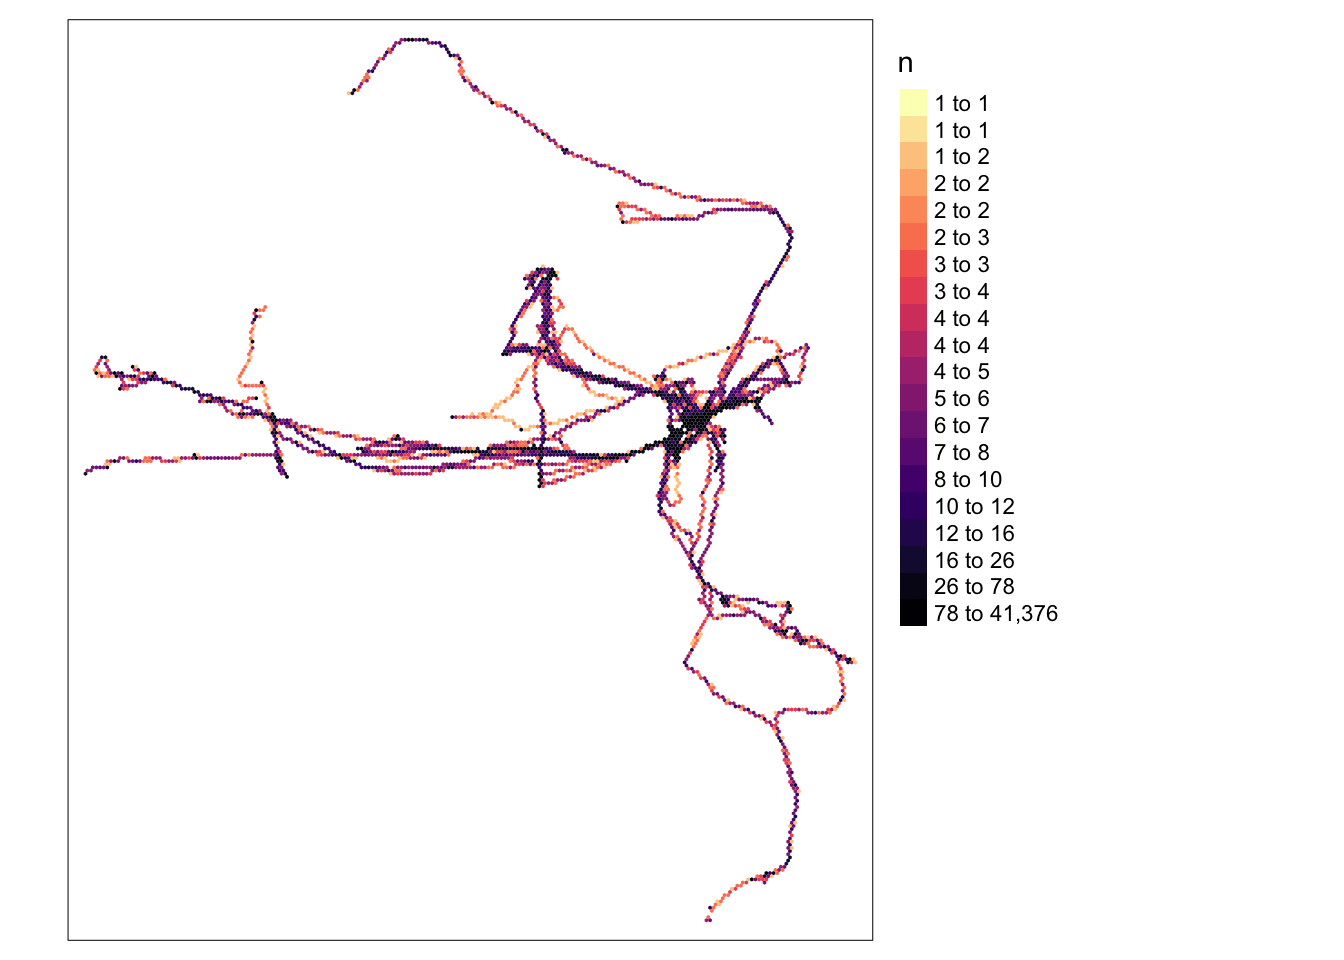
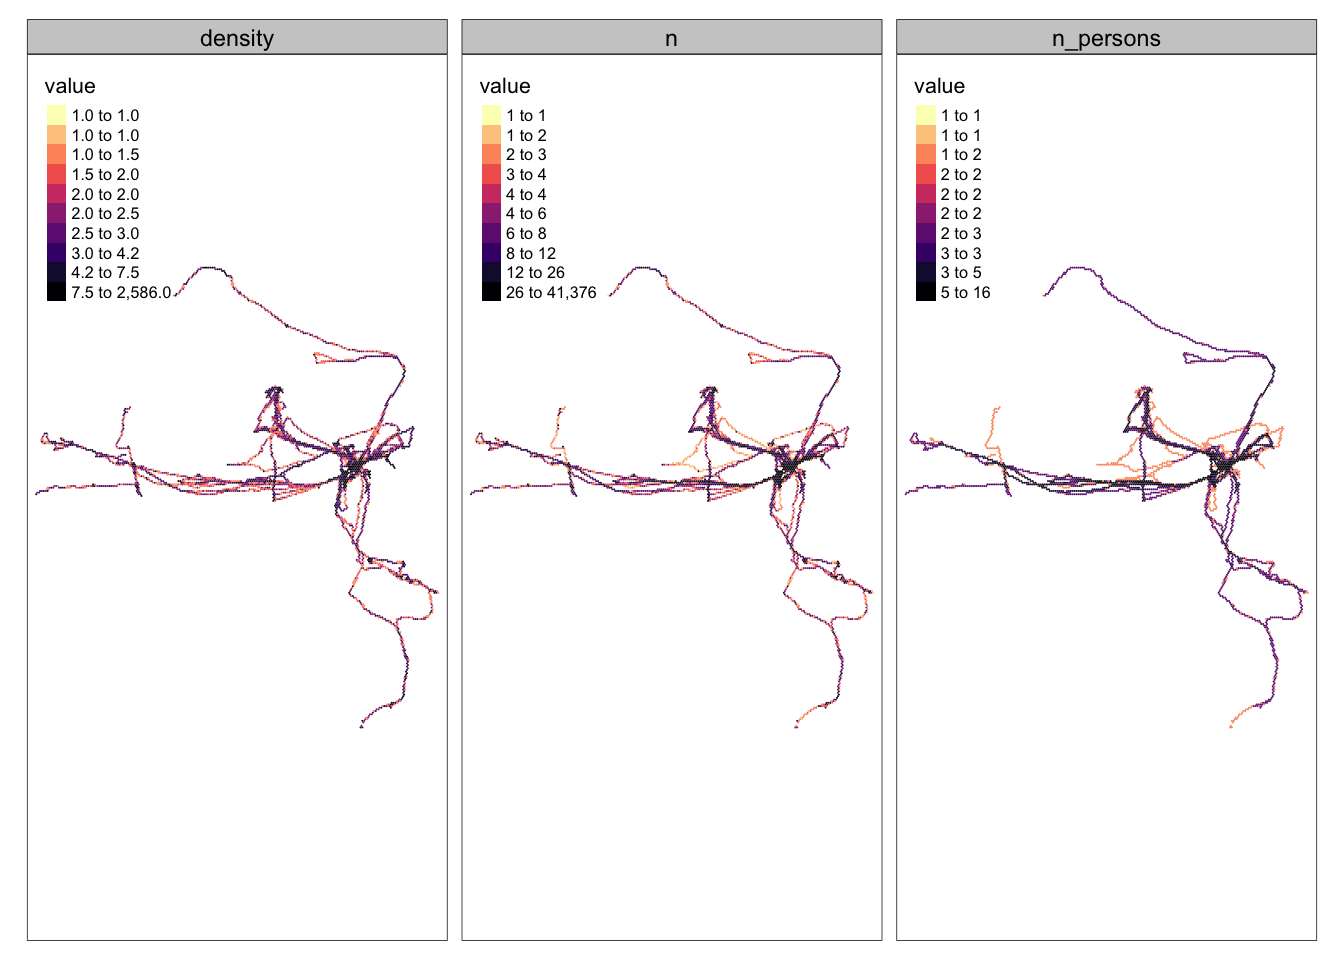
added new ways of filtering hexbins

diff --git a/docs/notebooks/03-estimating-a-hiking-function.html b/docs/notebooks/03-estimating-a-hiking-function.html
@@ -289,10 +289,14 @@ Update History
 </thead>
 <tbody>
 <tr class="odd">
+<td style="text-align: left;">2024-07-22</td>
+<td style="text-align: left;">Added variables to hex bin filter method.</td>
+</tr>
+<tr class="even">
 <td style="text-align: left;">2024-07-19</td>
 <td style="text-align: left;">Added nlsLM estimation of models.</td>
 </tr>
-<tr class="even">
+<tr class="odd">
 <td style="text-align: left;">2024-07-17</td>
 <td style="text-align: left;">Initial post.</td>
 </tr>
@@ -470,26 +474,24 @@ Achieved convergence tolerance: 1.49e-08</code></pre>
 </section>
 <section id="filtering-by-densely-travelled-locations" class="level3">
 <h3 class="anchored" data-anchor-id="filtering-by-densely-travelled-locations">Filtering by densely travelled locations</h3>
-<p><strong>TODO</strong>: Add number of distinct individuals to the binned data as an additional potential filter.</p>
 <p>The idea here is that densely travelled locations are near base camps and similar sites, and not where scientists are ‘on the move’. The approach below uses hex binning to find densely trafficked areas and exclude fixes in those areas.</p>
 <div class="cell">
 <div class="sourceCode cell-code" id="cb11"><pre class="sourceCode r code-with-copy"><code class="sourceCode r"><span id="cb11-1"><a href="#cb11-1" aria-hidden="true" tabindex="-1"></a>hexes <span class="ot">&lt;-</span> all_traces <span class="sc">|&gt;</span></span>
 <span id="cb11-2"><a href="#cb11-2" aria-hidden="true" tabindex="-1"></a>  <span class="fu">st_make_grid</span>(<span class="at">cellsize =</span> <span class="dv">60</span>, <span class="at">square =</span> <span class="cn">FALSE</span>, <span class="at">what =</span> <span class="st">"polygons"</span>) <span class="sc">|&gt;</span></span>
-<span id="cb11-3"><a href="#cb11-3" aria-hidden="true" tabindex="-1"></a>  <span class="fu">st_as_sf</span>(<span class="at">crs =</span> <span class="fu">st_crs</span>(all_traces))</span>
-<span id="cb11-4"><a href="#cb11-4" aria-hidden="true" tabindex="-1"></a></span>
-<span id="cb11-5"><a href="#cb11-5" aria-hidden="true" tabindex="-1"></a>counts <span class="ot">&lt;-</span> hexes <span class="sc">|&gt;</span></span>
-<span id="cb11-6"><a href="#cb11-6" aria-hidden="true" tabindex="-1"></a>  <span class="fu">st_intersects</span>(all_traces) <span class="sc">|&gt;</span></span>
-<span id="cb11-7"><a href="#cb11-7" aria-hidden="true" tabindex="-1"></a>  <span class="fu">lengths</span>()</span>
-<span id="cb11-8"><a href="#cb11-8" aria-hidden="true" tabindex="-1"></a></span>
-<span id="cb11-9"><a href="#cb11-9" aria-hidden="true" tabindex="-1"></a>hexes <span class="ot">&lt;-</span> hexes <span class="sc">|&gt;</span></span>
-<span id="cb11-10"><a href="#cb11-10" aria-hidden="true" tabindex="-1"></a>  <span class="fu">mutate</span>(<span class="at">n =</span> counts) <span class="sc">|&gt;</span></span>
-<span id="cb11-11"><a href="#cb11-11" aria-hidden="true" tabindex="-1"></a>  <span class="fu">filter</span>(n <span class="sc">&gt;</span> <span class="dv">0</span>)</span></code><button title="Copy to Clipboard" class="code-copy-button"><i class="bi"></i></button></pre></div>
+<span id="cb11-3"><a href="#cb11-3" aria-hidden="true" tabindex="-1"></a>  <span class="fu">st_as_sf</span>(<span class="at">crs =</span> <span class="fu">st_crs</span>(all_traces)) <span class="sc">|&gt;</span></span>
+<span id="cb11-4"><a href="#cb11-4" aria-hidden="true" tabindex="-1"></a>  <span class="fu">rename</span>(<span class="at">geom =</span> x) <span class="sc">|&gt;</span></span>
+<span id="cb11-5"><a href="#cb11-5" aria-hidden="true" tabindex="-1"></a>  <span class="fu">st_join</span>(all_traces <span class="sc">|&gt;</span> <span class="fu">mutate</span>(<span class="at">id =</span> <span class="fu">row_number</span>()), <span class="at">left =</span> <span class="cn">FALSE</span>) <span class="sc">|&gt;</span></span>
+<span id="cb11-6"><a href="#cb11-6" aria-hidden="true" tabindex="-1"></a>  <span class="fu">group_by</span>(geom) <span class="sc">|&gt;</span></span>
+<span id="cb11-7"><a href="#cb11-7" aria-hidden="true" tabindex="-1"></a>  <span class="fu">summarise</span>(<span class="at">n =</span> <span class="fu">n</span>(), <span class="at">n_persons =</span> <span class="fu">n_distinct</span>(name)) <span class="sc">|&gt;</span></span>
+<span id="cb11-8"><a href="#cb11-8" aria-hidden="true" tabindex="-1"></a>  <span class="fu">select</span>(n, n_persons) <span class="sc">|&gt;</span> </span>
+<span id="cb11-9"><a href="#cb11-9" aria-hidden="true" tabindex="-1"></a>  <span class="fu">ungroup</span>() <span class="sc">|&gt;</span></span>
+<span id="cb11-10"><a href="#cb11-10" aria-hidden="true" tabindex="-1"></a>  <span class="fu">mutate</span>(<span class="at">density =</span> n <span class="sc">/</span> n_persons)</span></code><button title="Copy to Clipboard" class="code-copy-button"><i class="bi"></i></button></pre></div>
 </div>
 <p>Map with <code>tmap</code> (greater flexibility on the classification scheme)</p>
 <div class="cell">
-<div class="sourceCode cell-code" id="cb12"><pre class="sourceCode r code-with-copy"><code class="sourceCode r"><span id="cb12-1"><a href="#cb12-1" aria-hidden="true" tabindex="-1"></a><span class="fu">tm_shape</span>(hexes) <span class="sc">+</span></span>
-<span id="cb12-2"><a href="#cb12-2" aria-hidden="true" tabindex="-1"></a>  <span class="fu">tm_fill</span>(<span class="at">col =</span> <span class="st">"n"</span>, <span class="at">style =</span> <span class="st">"quantile"</span>, <span class="at">n =</span> <span class="dv">20</span>, <span class="at">palette =</span> <span class="st">"-magma"</span>) <span class="sc">+</span></span>
-<span id="cb12-3"><a href="#cb12-3" aria-hidden="true" tabindex="-1"></a>  <span class="fu">tm_layout</span>(<span class="at">legend.outside =</span> <span class="cn">TRUE</span>)</span></code><button title="Copy to Clipboard" class="code-copy-button"><i class="bi"></i></button></pre></div>
+<div class="sourceCode cell-code" id="cb12"><pre class="sourceCode r code-with-copy"><code class="sourceCode r"><span id="cb12-1"><a href="#cb12-1" aria-hidden="true" tabindex="-1"></a><span class="fu">tm_shape</span>(hexes <span class="sc">|&gt;</span> <span class="fu">pivot_longer</span>(<span class="at">cols =</span> <span class="fu">c</span>(n, n_persons, density))) <span class="sc">+</span></span>
+<span id="cb12-2"><a href="#cb12-2" aria-hidden="true" tabindex="-1"></a>  <span class="fu">tm_fill</span>(<span class="at">col =</span> <span class="st">"value"</span>, <span class="at">style =</span> <span class="st">"quantile"</span>, <span class="at">n =</span> <span class="dv">10</span>, <span class="at">palette =</span> <span class="st">"-magma"</span>) <span class="sc">+</span></span>
+<span id="cb12-3"><a href="#cb12-3" aria-hidden="true" tabindex="-1"></a>  <span class="fu">tm_facets</span>(<span class="at">by =</span> <span class="st">"name"</span>, <span class="at">free.scales =</span> <span class="cn">TRUE</span>)</span></code><button title="Copy to Clipboard" class="code-copy-button"><i class="bi"></i></button></pre></div>
 <div class="cell-output-display">
 <div>
 <figure class="figure">
@@ -498,12 +500,15 @@ Achieved convergence tolerance: 1.49e-08</code></pre>
 </div>
 </div>
 </div>
-<p>But where to cut off the data? Here’s a histogram… although we need to cut out the really big numbers to see anything…</p>
+<p>But where to cut off the data? Here are boxplots (note log scales) of the number of fixes <code>n</code>, the number of persons, <code>n_persons</code>, and the number of fixes per person, <code>density</code>, associated with each hex.</p>
 <div class="cell">
-<div class="sourceCode cell-code" id="cb13"><pre class="sourceCode r code-with-copy"><code class="sourceCode r"><span id="cb13-1"><a href="#cb13-1" aria-hidden="true" tabindex="-1"></a>hexes <span class="sc">|&gt;</span> <span class="fu">filter</span>(n <span class="sc">&lt;</span> <span class="dv">50</span>) <span class="sc">|&gt;</span></span>
-<span id="cb13-2"><a href="#cb13-2" aria-hidden="true" tabindex="-1"></a>  <span class="fu">ggplot</span>() <span class="sc">+</span></span>
-<span id="cb13-3"><a href="#cb13-3" aria-hidden="true" tabindex="-1"></a>  <span class="fu">geom_histogram</span>(<span class="fu">aes</span>(<span class="at">x =</span> n), <span class="at">fill =</span> <span class="st">"grey"</span>, <span class="at">colour =</span> <span class="st">"black"</span>, <span class="at">linewidth =</span> <span class="fl">0.35</span>) <span class="sc">+</span></span>
-<span id="cb13-4"><a href="#cb13-4" aria-hidden="true" tabindex="-1"></a>  <span class="fu">theme_minimal</span>()</span></code><button title="Copy to Clipboard" class="code-copy-button"><i class="bi"></i></button></pre></div>
+<div class="sourceCode cell-code" id="cb13"><pre class="sourceCode r code-with-copy"><code class="sourceCode r"><span id="cb13-1"><a href="#cb13-1" aria-hidden="true" tabindex="-1"></a>hexes <span class="sc">|&gt;</span> </span>
+<span id="cb13-2"><a href="#cb13-2" aria-hidden="true" tabindex="-1"></a>  <span class="fu">pivot_longer</span>(<span class="at">cols =</span> <span class="fu">c</span>(n, n_persons, density)) <span class="sc">|&gt;</span></span>
+<span id="cb13-3"><a href="#cb13-3" aria-hidden="true" tabindex="-1"></a>  <span class="fu">ggplot</span>() <span class="sc">+</span></span>
+<span id="cb13-4"><a href="#cb13-4" aria-hidden="true" tabindex="-1"></a>  <span class="fu">geom_boxplot</span>(<span class="fu">aes</span>(<span class="at">y =</span> value)) <span class="sc">+</span></span>
+<span id="cb13-5"><a href="#cb13-5" aria-hidden="true" tabindex="-1"></a>  <span class="fu">scale_y_log10</span>() <span class="sc">+</span></span>
+<span id="cb13-6"><a href="#cb13-6" aria-hidden="true" tabindex="-1"></a>  <span class="fu">facet_wrap</span>( <span class="sc">~</span> name, <span class="at">scales =</span> <span class="st">"free_y"</span>, <span class="at">ncol =</span> <span class="dv">3</span>) <span class="sc">+</span></span>
+<span id="cb13-7"><a href="#cb13-7" aria-hidden="true" tabindex="-1"></a>  <span class="fu">theme_minimal</span>()</span></code><button title="Copy to Clipboard" class="code-copy-button"><i class="bi"></i></button></pre></div>
 <div class="cell-output-display">
 <div>
 <figure class="figure">
@@ -512,27 +517,28 @@ Achieved convergence tolerance: 1.49e-08</code></pre>
 </div>
 </div>
 </div>
-<p>This doesn’t really help… but it does suggest that perhaps somewhere around 25?</p>
-<p>However… it’s not entirely clear that this yields better results!</p>
+<p>This doesn’t really help! … and it’s not entirely clear that this yields better results!</p>
 <div class="cell">
 <div class="sourceCode cell-code" id="cb14"><pre class="sourceCode r code-with-copy"><code class="sourceCode r"><span id="cb14-1"><a href="#cb14-1" aria-hidden="true" tabindex="-1"></a>d_hexes <span class="ot">&lt;-</span> all_traces <span class="sc">|&gt;</span></span>
 <span id="cb14-2"><a href="#cb14-2" aria-hidden="true" tabindex="-1"></a>  <span class="fu">st_join</span>(hexes) <span class="sc">|&gt;</span> </span>
-<span id="cb14-3"><a href="#cb14-3" aria-hidden="true" tabindex="-1"></a>  <span class="fu">filter</span>(n <span class="sc">&lt;</span> <span class="dv">25</span>) <span class="sc">|&gt;</span></span>
-<span id="cb14-4"><a href="#cb14-4" aria-hidden="true" tabindex="-1"></a>  <span class="fu">st_drop_geometry</span>() <span class="sc">|&gt;</span></span>
-<span id="cb14-5"><a href="#cb14-5" aria-hidden="true" tabindex="-1"></a>  <span class="fu">select</span>(slope_h, speed_km_h)</span>
-<span id="cb14-6"><a href="#cb14-6" aria-hidden="true" tabindex="-1"></a></span>
-<span id="cb14-7"><a href="#cb14-7" aria-hidden="true" tabindex="-1"></a>mod_tobler <span class="ot">&lt;-</span> <span class="fu">get_tobler_hiking_function</span>(d_hexes)</span>
-<span id="cb14-8"><a href="#cb14-8" aria-hidden="true" tabindex="-1"></a>mod_gauss <span class="ot">&lt;-</span> <span class="fu">get_gaussian_hiking_function</span>(d_hexes)</span>
-<span id="cb14-9"><a href="#cb14-9" aria-hidden="true" tabindex="-1"></a>mod_students_t <span class="ot">&lt;-</span> <span class="fu">get_students_t_hiking_function</span>(d_hexes)</span>
-<span id="cb14-10"><a href="#cb14-10" aria-hidden="true" tabindex="-1"></a></span>
-<span id="cb14-11"><a href="#cb14-11" aria-hidden="true" tabindex="-1"></a><span class="fu">plot</span>(gps_data, <span class="at">col =</span> <span class="st">"lightgray"</span>, <span class="at">cex =</span> <span class="fl">0.5</span>,</span>
-<span id="cb14-12"><a href="#cb14-12" aria-hidden="true" tabindex="-1"></a>     <span class="at">main =</span> <span class="st">"Hiking functions from less densely trafficked areas"</span>)</span>
-<span id="cb14-13"><a href="#cb14-13" aria-hidden="true" tabindex="-1"></a><span class="fu">points</span>(d_hexes, <span class="at">cex =</span> <span class="fl">0.5</span>) </span>
-<span id="cb14-14"><a href="#cb14-14" aria-hidden="true" tabindex="-1"></a><span class="fu">lines</span>(s, <span class="fu">predict</span>(mod_tobler, slopes), <span class="at">col =</span> <span class="st">"red"</span>, <span class="at">lwd =</span> <span class="dv">2</span>)</span>
-<span id="cb14-15"><a href="#cb14-15" aria-hidden="true" tabindex="-1"></a><span class="fu">lines</span>(s, <span class="fu">predict</span>(mod_gauss, slopes), <span class="at">col =</span> <span class="st">"blue"</span>, <span class="at">lwd =</span> <span class="dv">2</span>)</span>
-<span id="cb14-16"><a href="#cb14-16" aria-hidden="true" tabindex="-1"></a><span class="fu">lines</span>(s, <span class="fu">predict</span>(mod_students_t, slopes), <span class="at">col =</span> <span class="st">"forestgreen"</span>, <span class="at">lwd =</span> <span class="dv">2</span>)</span>
-<span id="cb14-17"><a href="#cb14-17" aria-hidden="true" tabindex="-1"></a><span class="fu">legend</span>(<span class="st">"topright"</span>, <span class="at">legend =</span> <span class="fu">c</span>(<span class="st">"Tobler"</span>, <span class="st">"Gaussian"</span>, <span class="st">"Student's t"</span>), </span>
-<span id="cb14-18"><a href="#cb14-18" aria-hidden="true" tabindex="-1"></a>       <span class="at">col =</span> <span class="fu">c</span>(<span class="st">"red"</span>, <span class="st">"blue"</span>, <span class="st">"forestgreen"</span>), <span class="at">lwd =</span> <span class="dv">2</span>, <span class="at">lty =</span> <span class="dv">1</span>)</span></code><button title="Copy to Clipboard" class="code-copy-button"><i class="bi"></i></button></pre></div>
+<span id="cb14-3"><a href="#cb14-3" aria-hidden="true" tabindex="-1"></a>  <span class="fu">filter</span>(n <span class="sc">&lt;</span> <span class="dv">26</span>) <span class="sc">|&gt;</span></span>
+<span id="cb14-4"><a href="#cb14-4" aria-hidden="true" tabindex="-1"></a>  <span class="fu">filter</span>(density <span class="sc">&lt;</span> <span class="fl">7.5</span>) <span class="sc">|&gt;</span> </span>
+<span id="cb14-5"><a href="#cb14-5" aria-hidden="true" tabindex="-1"></a>  <span class="fu">filter</span>(n_persons <span class="sc">&lt;</span> <span class="dv">5</span>) <span class="sc">|&gt;</span></span>
+<span id="cb14-6"><a href="#cb14-6" aria-hidden="true" tabindex="-1"></a>  <span class="fu">st_drop_geometry</span>() <span class="sc">|&gt;</span></span>
+<span id="cb14-7"><a href="#cb14-7" aria-hidden="true" tabindex="-1"></a>  <span class="fu">select</span>(slope_h, speed_km_h)</span>
+<span id="cb14-8"><a href="#cb14-8" aria-hidden="true" tabindex="-1"></a></span>
+<span id="cb14-9"><a href="#cb14-9" aria-hidden="true" tabindex="-1"></a>mod_tobler <span class="ot">&lt;-</span> <span class="fu">get_tobler_hiking_function</span>(d_hexes)</span>
+<span id="cb14-10"><a href="#cb14-10" aria-hidden="true" tabindex="-1"></a>mod_gauss <span class="ot">&lt;-</span> <span class="fu">get_gaussian_hiking_function</span>(d_hexes)</span>
+<span id="cb14-11"><a href="#cb14-11" aria-hidden="true" tabindex="-1"></a>mod_students_t <span class="ot">&lt;-</span> <span class="fu">get_students_t_hiking_function</span>(d_hexes)</span>
+<span id="cb14-12"><a href="#cb14-12" aria-hidden="true" tabindex="-1"></a></span>
+<span id="cb14-13"><a href="#cb14-13" aria-hidden="true" tabindex="-1"></a><span class="fu">plot</span>(gps_data, <span class="at">col =</span> <span class="st">"lightgray"</span>, <span class="at">cex =</span> <span class="fl">0.5</span>,</span>
+<span id="cb14-14"><a href="#cb14-14" aria-hidden="true" tabindex="-1"></a>     <span class="at">main =</span> <span class="st">"Hiking functions from less densely trafficked areas"</span>)</span>
+<span id="cb14-15"><a href="#cb14-15" aria-hidden="true" tabindex="-1"></a><span class="fu">points</span>(d_hexes, <span class="at">cex =</span> <span class="fl">0.5</span>) </span>
+<span id="cb14-16"><a href="#cb14-16" aria-hidden="true" tabindex="-1"></a><span class="fu">lines</span>(s, <span class="fu">predict</span>(mod_tobler, slopes), <span class="at">col =</span> <span class="st">"red"</span>, <span class="at">lwd =</span> <span class="dv">2</span>)</span>
+<span id="cb14-17"><a href="#cb14-17" aria-hidden="true" tabindex="-1"></a><span class="fu">lines</span>(s, <span class="fu">predict</span>(mod_gauss, slopes), <span class="at">col =</span> <span class="st">"blue"</span>, <span class="at">lwd =</span> <span class="dv">2</span>)</span>
+<span id="cb14-18"><a href="#cb14-18" aria-hidden="true" tabindex="-1"></a><span class="fu">lines</span>(s, <span class="fu">predict</span>(mod_students_t, slopes), <span class="at">col =</span> <span class="st">"forestgreen"</span>, <span class="at">lwd =</span> <span class="dv">2</span>)</span>
+<span id="cb14-19"><a href="#cb14-19" aria-hidden="true" tabindex="-1"></a><span class="fu">legend</span>(<span class="st">"topright"</span>, <span class="at">legend =</span> <span class="fu">c</span>(<span class="st">"Tobler"</span>, <span class="st">"Gaussian"</span>, <span class="st">"Student's t"</span>), </span>
+<span id="cb14-20"><a href="#cb14-20" aria-hidden="true" tabindex="-1"></a>       <span class="at">col =</span> <span class="fu">c</span>(<span class="st">"red"</span>, <span class="st">"blue"</span>, <span class="st">"forestgreen"</span>), <span class="at">lwd =</span> <span class="dv">2</span>, <span class="at">lty =</span> <span class="dv">1</span>)</span></code><button title="Copy to Clipboard" class="code-copy-button"><i class="bi"></i></button></pre></div>
 <div class="cell-output-display">
 <div>
 <figure class="figure">
@@ -1031,7 +1037,7 @@ window.document.addEventListener("DOMContentLoaded", function (event) {
   </div>
 </nav>
 </div> <!-- /content -->
-<script>var lightboxQuarto = GLightbox({"selector":".lightbox","loop":false,"closeEffect":"zoom","descPosition":"bottom","openEffect":"zoom"});
+<script>var lightboxQuarto = GLightbox({"descPosition":"bottom","closeEffect":"zoom","selector":".lightbox","openEffect":"zoom","loop":false});
 window.onload = () => {
   lightboxQuarto.on('slide_before_load', (data) => {
     const { slideIndex, slideNode, slideConfig, player, trigger } = data;

diff --git a/docs/index.html b/docs/index.html
@@ -322,7 +322,7 @@ David O’Sullivan
 </a>
 </div>
 </div>
-<div class="quarto-post image-right" data-index="3" data-listing-date-sort="1721131200000" data-listing-file-modified-sort="1721520291525" data-listing-date-modified-sort="NaN" data-listing-reading-time-sort="8" data-listing-word-count-sort="1572">
+<div class="quarto-post image-right" data-index="3" data-listing-date-sort="1721131200000" data-listing-file-modified-sort="1721604990718" data-listing-date-modified-sort="NaN" data-listing-reading-time-sort="9" data-listing-word-count-sort="1643">
 <div class="thumbnail">
 <p><a href="./notebooks/03-estimating-a-hiking-function.html" class="no-external"></a></p><a href="./notebooks/03-estimating-a-hiking-function.html" class="no-external">
 <p class="card-img-top"><img src="notebooks/03-estimating-a-hiking-function_files/figure-html/unnamed-chunk-3-1.png"  class="thumbnail-image card-img"/></p>

diff --git a/docs/notebooks/01-exploring-gps-data.html b/docs/notebooks/01-exploring-gps-data.html
@@ -1002,7 +1002,7 @@ window.document.addEventListener("DOMContentLoaded", function (event) {
   </div>
 </nav>
 </div> <!-- /content -->
-<script>var lightboxQuarto = GLightbox({"selector":".lightbox","openEffect":"zoom","loop":false,"closeEffect":"zoom","descPosition":"bottom"});
+<script>var lightboxQuarto = GLightbox({"closeEffect":"zoom","selector":".lightbox","loop":false,"descPosition":"bottom","openEffect":"zoom"});
 window.onload = () => {
   lightboxQuarto.on('slide_before_load', (data) => {
     const { slideIndex, slideNode, slideConfig, player, trigger } = data;
